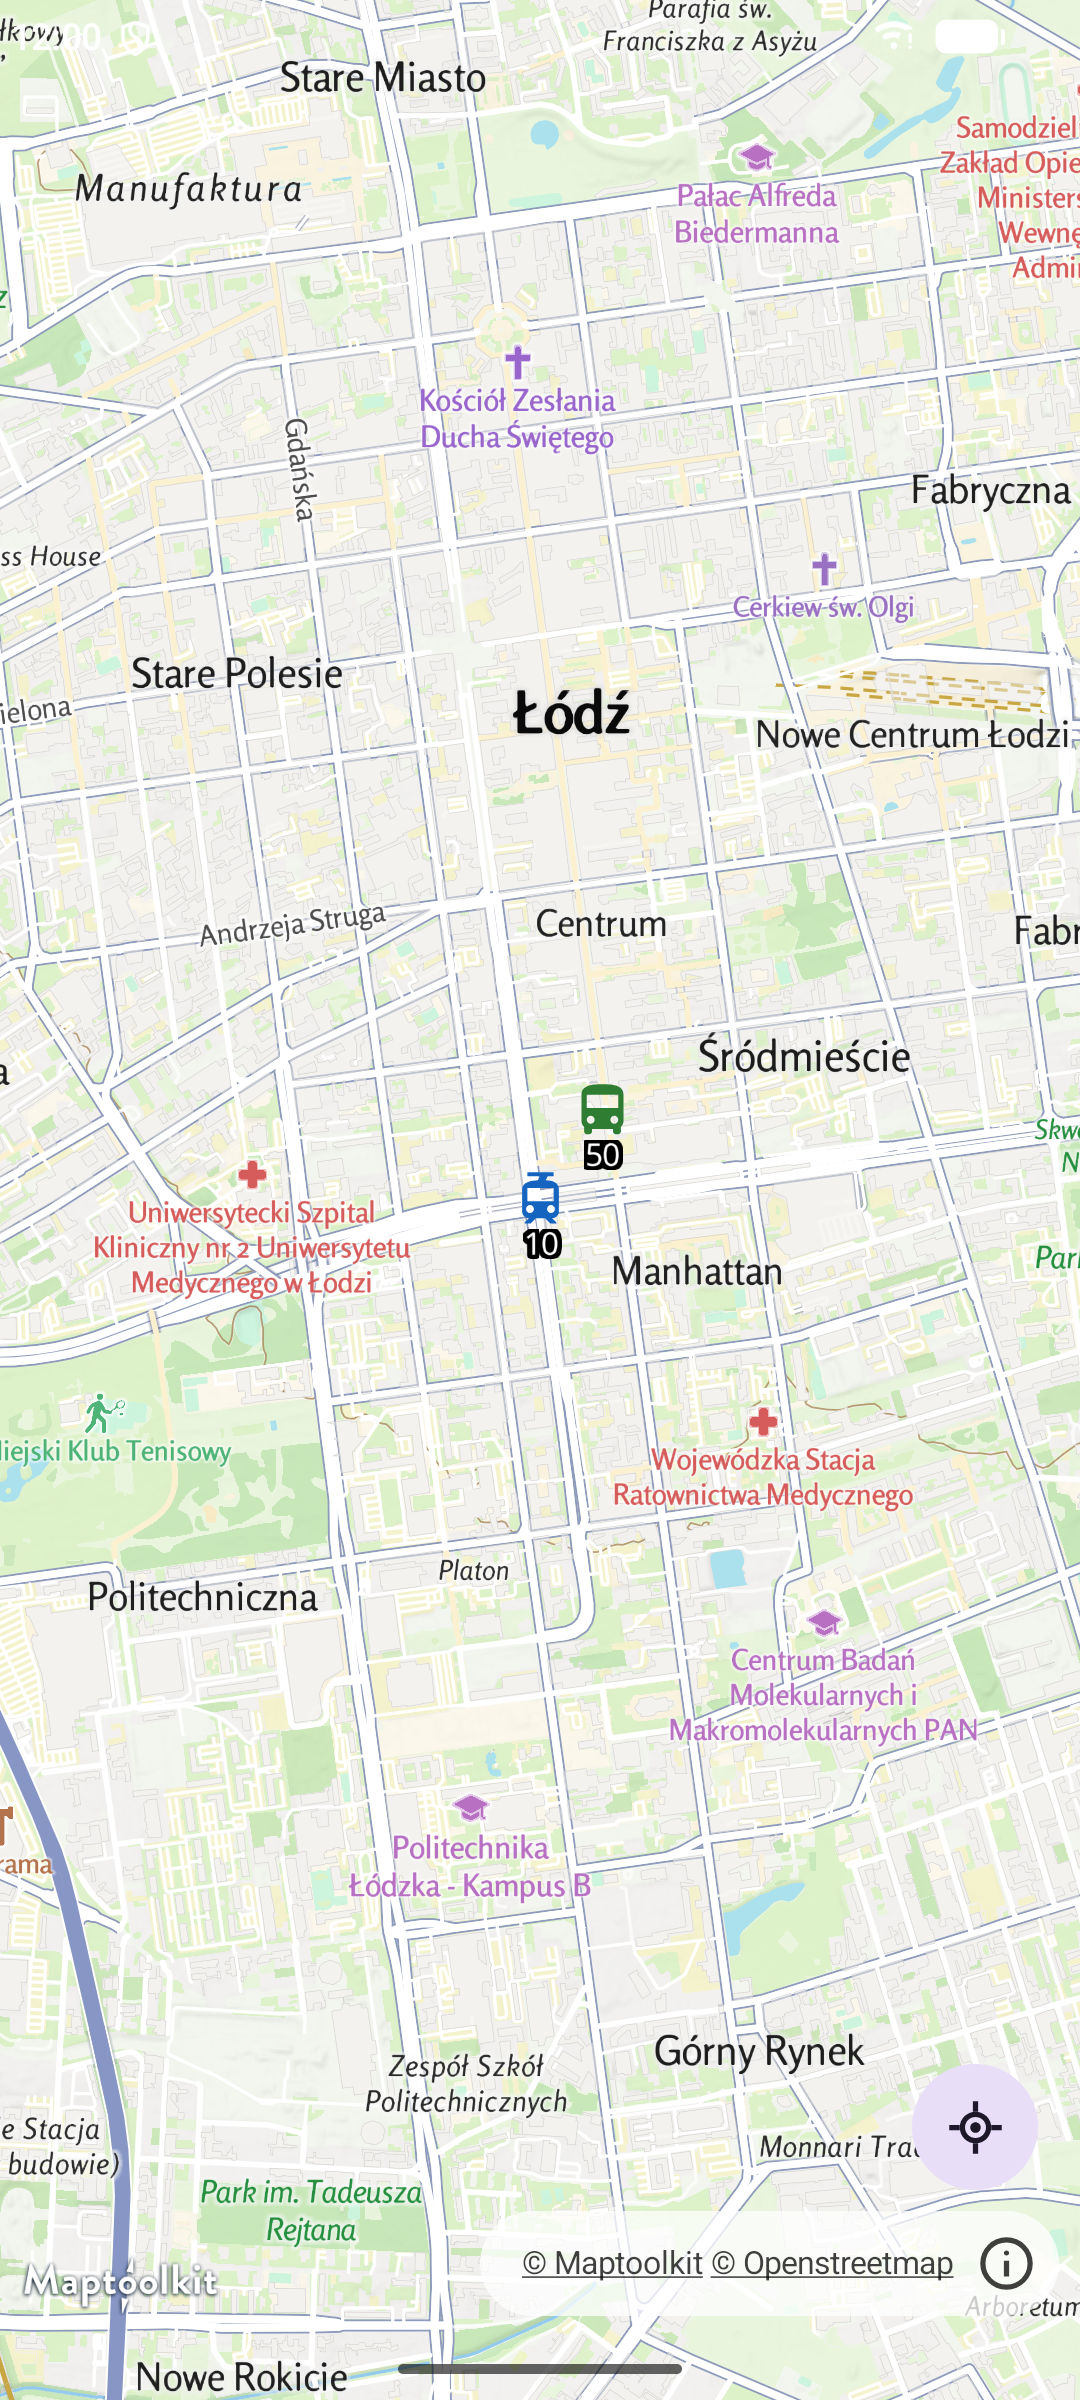
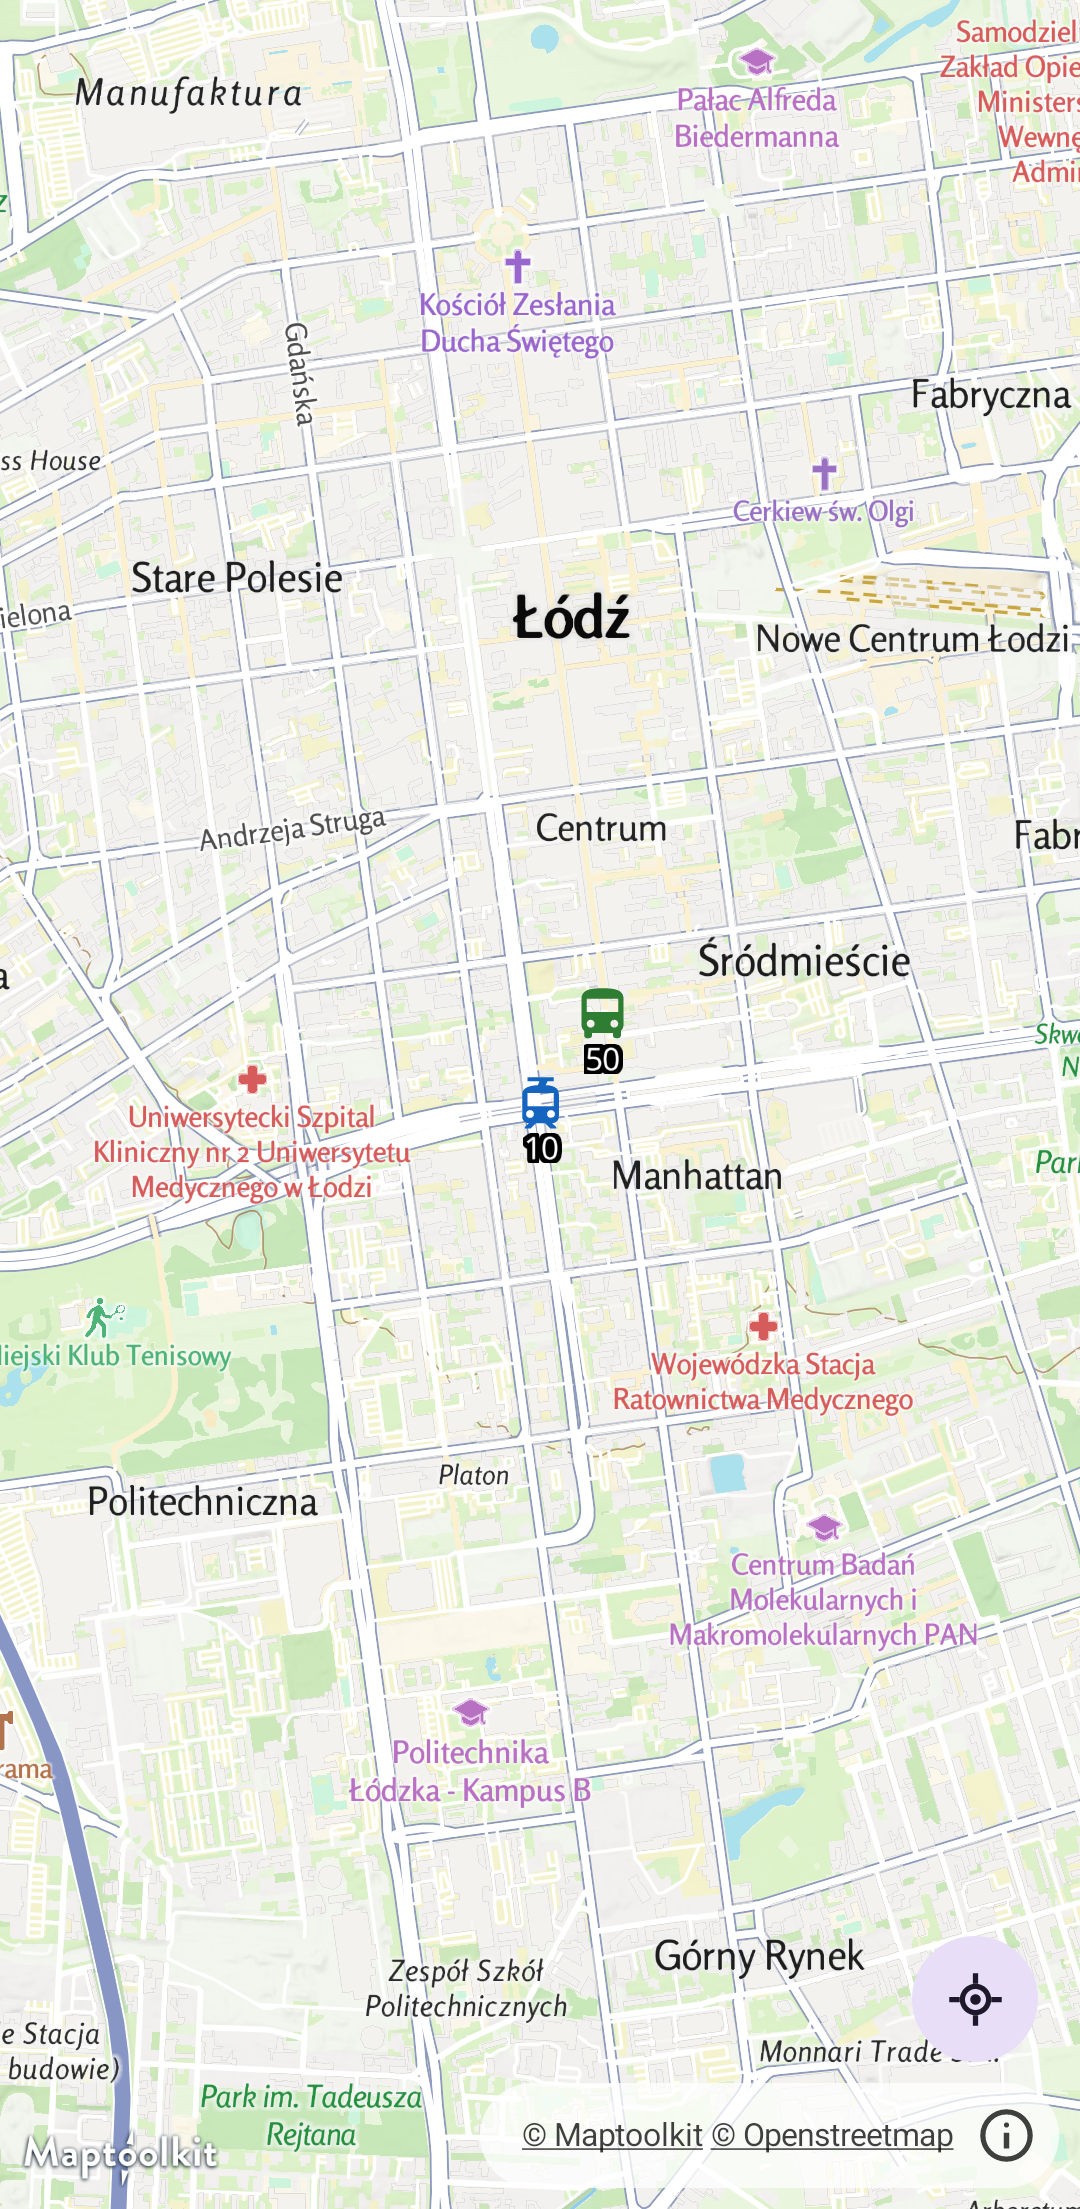
test(screenshots): record MapLibre goldens on the canonical Pixel 6 API 34 config

diff --git a/docs/SCREENSHOT_TESTING.md b/docs/SCREENSHOT_TESTING.md
@@ -19,7 +19,9 @@ native Surface/GL views that Robolectric/Layoutlib leave blank.
 
 ## Recording goldens locally
 
-1. Start an emulator (canonical config: Pixel 6, API 34, 1080x2400 — goldens are size-sensitive).
+1. Start an emulator matching the canonical CI config (Pixel 6, API 34, google_apis —
+   goldens are size-sensitive: API 34 captures the 1080x2209 app window, newer APIs capture
+   the full 1080x2400 screen including system bars).
 2. Fix the status bar, matching CI:
    ```bash
    adb shell settings put global sysui_demo_allowed 1
